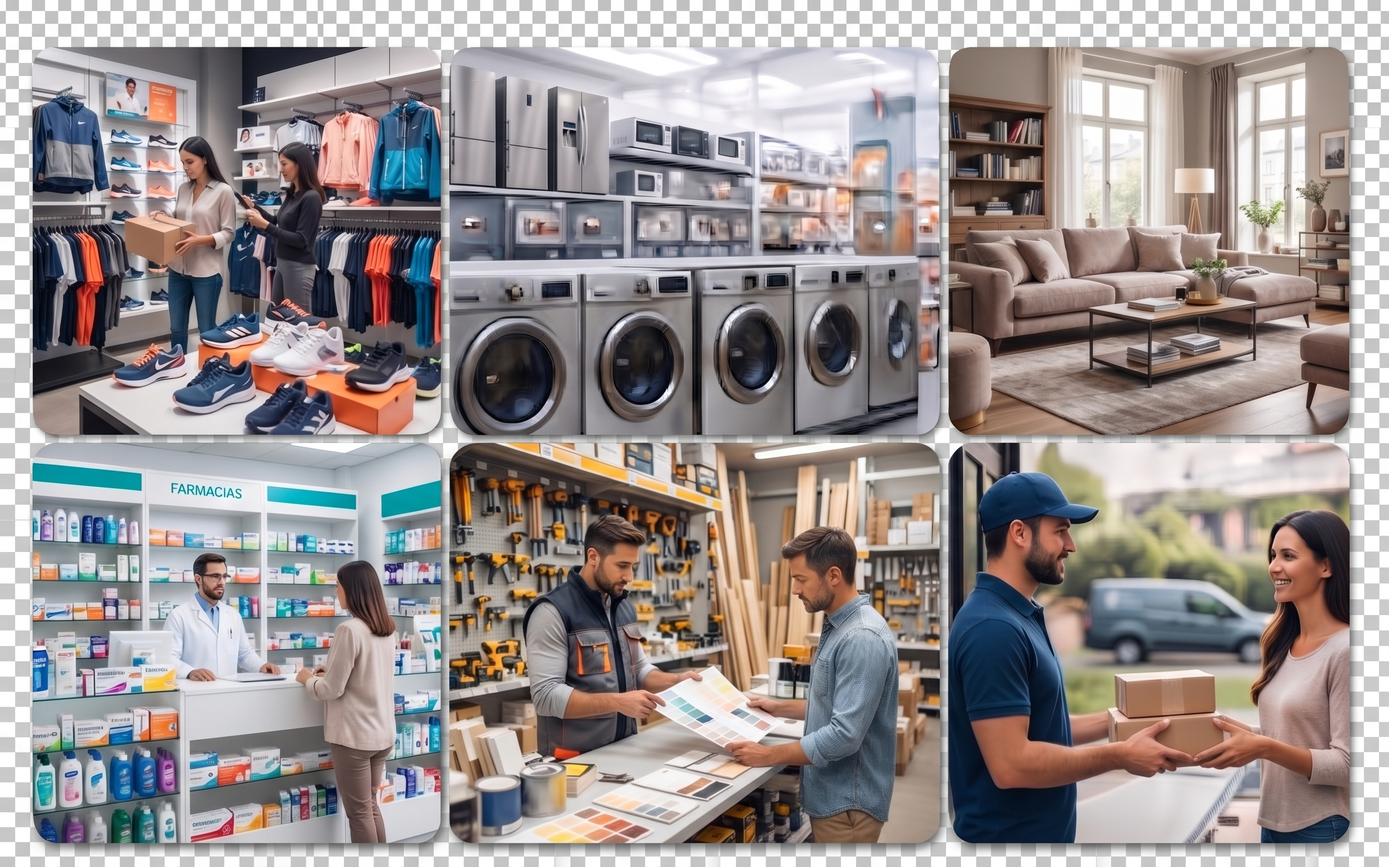
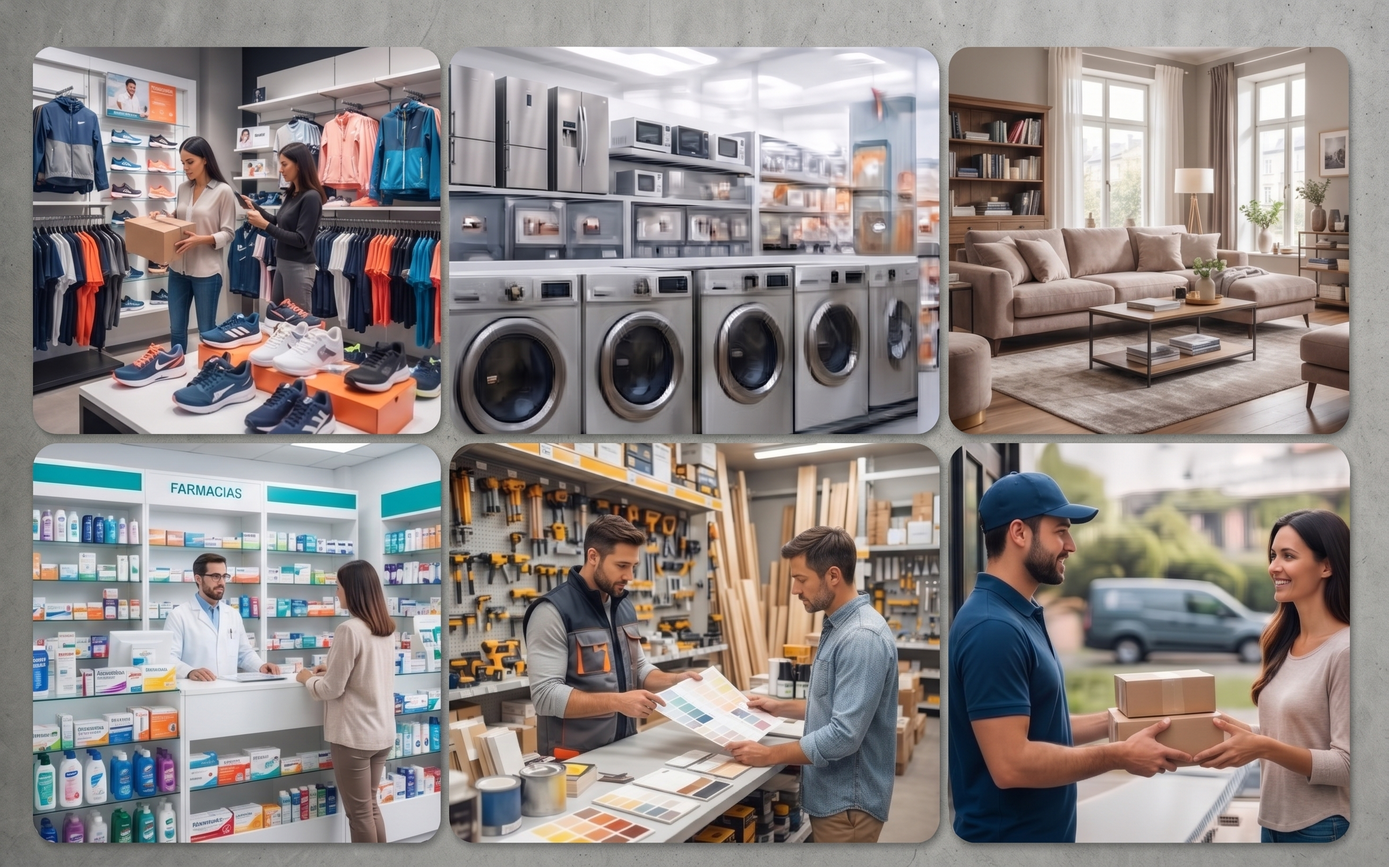
home update

diff --git a/src/index.css b/src/index.css
@@ -174,7 +174,7 @@ a:focus-visible {
 }
 
 .section-heading {
-  max-width: auto;
+  max-width: 100%;
   margin-bottom: 42px;
 }
 
@@ -307,9 +307,10 @@ p.small {
   margin: 16px 0;
   border-radius: 6px;
   border: 1px solid transparent;
-  padding: 16px 14px;
-  font-size: 12px;
-  font-weight: 800;
+  padding: 0 14px;
+  height: 60px;
+  font-size: 16px;
+  font-weight: normal;
   transition:
     transform 0.2s ease,
     box-shadow 0.2s ease,
@@ -1216,7 +1217,7 @@ p.small {
   }
 
   .section {
-    padding: 66px 0;
+    padding: 40px 0;
   }
 
   .hero {
@@ -1340,12 +1341,30 @@ p.small {
   }
 
   .section {
-    padding: 66px 0;
+    padding: 30px 0;
+  }
+
+  .section .btn {
+    width: 100%;
+    max-width: 100%;
+  }
+
+  .section-heading h2,
+  .split-copy h2 {
+    font-size: 2rem;
   }
 
   .hero {
     min-height: auto;
     padding: 110px 0 70px;
+  }
+
+  .hero-copy h1 {
+    font-size: 2rem;
+  }
+
+  .hero-copy .btn {
+    width: 100%;
   }
 
   .hero-grid,
@@ -1383,19 +1402,61 @@ p.small {
     order: initial;
   }
 
+
+  .photo-frame {
+    position: relative;
+    min-height: fit-content;
+  }
+
   .photo-frame img,
   .cost-art>img {
-    height: 290px;
+    height: auto
   }
 
   .dashboard-card,
   .calendar-card {
-    left: 12px;
+    position: relative;
+  }
+
+  .story-card {
+    flex-wrap: wrap;
+    align-items: center;
+    justify-content: center;
+    flex-direction: column-reverse !important;
+  }
+
+  .story-card .story-text {
+    padding: 16px;
+    display: inline-flex;
+    flex-direction: row;
+    align-items: stretch;
+    justify-content: center;
+    flex-wrap: wrap;
+  }
+
+  .story-text strong {
+    text-align: center;
+    width: 100%;
+  }
+
+  .story-text h3 {
+    flex: 0 0 100%;
+  }
+
+  .story-card img {
+    width: 100%;
+    height: auto;
+    object-fit: cover;
   }
 
   .story-grid,
   .change-grid {
     grid-template-columns: 1fr;
+  }
+
+  .story-divider {
+    text-align: center;
+    gap: 10px;
   }
 
   .steps-list {
@@ -1421,6 +1482,7 @@ p.small {
     justify-content: center;
     margin: 10px 0;
     transform: rotate(90deg);
+    position: relative;
   }
 
   .step-line i svg {
@@ -1431,6 +1493,18 @@ p.small {
     margin: 5px 0 0;
     max-width: 260px;
   }
+
+  .over-img {
+    position: relative;
+    left: 0;
+    right: 0;
+    margin: 0;
+    top: -40px;
+    margin-bottom: 16px;
+    height: 100%;
+  }
+
+
 
   .trust-grid {
     padding-block: 0;
@@ -1443,6 +1517,11 @@ p.small {
 
   .industry-list {
     gap: 9px 15px;
+    grid-template-columns: 1fr;
+  }
+
+  .promise-section p {
+    width: 100%;
   }
 
   .collage {
@@ -1463,6 +1542,11 @@ p.small {
     min-height: 255px;
   }
 
+  .new-way-section {
+    position: relative;
+    padding-top: 20px;
+  }
+
   .contact-section h2 {
     font-size: 2.1rem;
   }
@@ -1478,6 +1562,13 @@ p.small {
   .site-footer {
     min-height: 68px;
   }
+
+  .contact-actions .btn {
+    width: 100%;
+    height: 60px;
+    font-size: 16px;
+    font-weight: normal;
+  }
 }
 
 @media (max-width: 390px) {
@@ -1492,13 +1583,6 @@ p.small {
     font-size: 2.25rem;
   }
 
-  .story-card>div {
-    padding-right: 12px;
-  }
-
-  .story-card img {
-    width: 42%;
-  }
 }
 
 html.reveal-ready [data-reveal] {

diff --git a/src/styles/custom.scss b/src/styles/custom.scss
@@ -100,12 +100,13 @@ $page-break-mobile: 960px;
 
             background: linear-gradient(120deg, rgb(1 57 131/ 99%) 30%, rgba(255, 255, 255, 0.05) 100%), url(/images/ultima-milla.jpeg) no-repeat right center !important;
             background-size: cover !important;
+
             p {
-                    font-size: 18px;
-                    width: 100%;
-                    max-width: 50%;
-                    line-height: 1.6;
-                }
+                font-size: 18px;
+                width: 100%;
+                max-width: 50%;
+                line-height: 1.6;
+            }
         }
 
         .industries {
@@ -133,6 +134,16 @@ $page-break-mobile: 960px;
         @media (max-width: $page-break-mobile) {
             .hero {
                 background-position: 62% center;
+            }
+
+            .trust-section {
+                background-size: cover !important;
+            }
+
+            .promise-section {
+                p  {
+                    max-width: 100%;
+                }
             }
         }
     }

diff --git a/src/data/home.ts b/src/data/home.ts
@@ -8,7 +8,7 @@ export const images = {
   deviceMockup: "/images/pc-shopi.png",
   dashboardCard: "/images/graficas-shopi.png",
   calendarCard: "/images/calendario-shopi.png",
-  industriesImg: "/images/industrias.png",
+  industriesImg: "/images/industrias.jpeg",
 };
 
 export const steps = [
